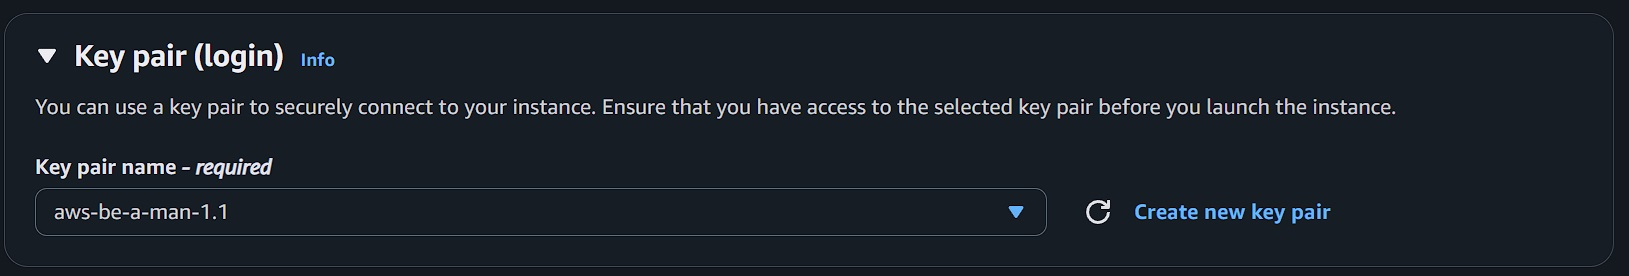
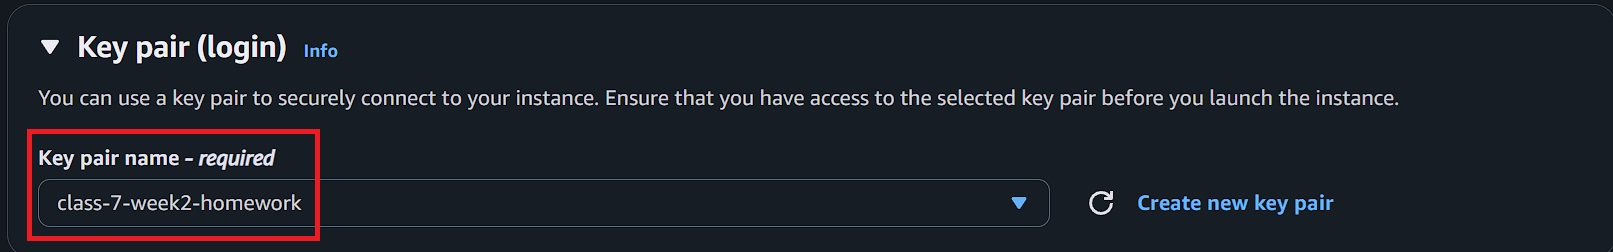
second commit

diff --git a/README.md b/README.md
@@ -1,4 +1,4 @@
-# 🚀 Week 2 Homework — Custom Webserver on EC2 & Ping Google DNS
+# Week 2 Homework — Custom Webserver on EC2 & Ping Google DNS
 
 [![Repo](https://img.shields.io/badge/Repo-class--7--homework-181717?logo=github)](https://github.com/tiqsclass6/class-7-homework)
 ![Cloud-AWS](https://img.shields.io/badge/Cloud-AWS-orange?logo=amazon-aws&logoColor=white)
@@ -52,7 +52,7 @@ Follow each step carefully and you’ll have your own running webserver serving 
 |------|----------|------------|--------|-------------|
 | `HTTP` | TCP      | 80         | Anywhere (0.0.0.0/0) | `webserver` or `HTTP` |
 | `SSH`  | TCP      | 22         | Anywhere (0.0.0.0/0) | `SSH` |
-| `All ICMP` | TCP      | 80         | Anywhere (0.0.0.0/0) | `ICMP` |
+| `All ICMP - IPv4` | TCP      | All         | Anywhere (0.0.0.0/0) | `ICMP` |
 
 ![security-group-details-pt1](/Screenshots/security-group-details-pt1.jpg)
 
@@ -115,7 +115,7 @@ Click **Create security group**.
 2. Scroll to **User data (optional)**  
 3. Paste in your **custom script** (Apache + HTML)
 
-`week2.sh`:
+`class-7-week2-homework.sh`:
 
 ```bash
 #!/bin/bash
@@ -268,8 +268,8 @@ Click **Launch instance** on the right-hand side.
 
 ## 5⃣ Access Your Webserver
 
-1. Open a new browser tab  
-2. Visit:  
+1. Open a **new browser tab**
+2. Visit:
 
    ```plaintext
    http://<your-public-dns>
@@ -277,7 +277,7 @@ Click **Launch instance** on the right-hand side.
 
 3. 🎉 **Class 7 - Week 2 Homework - WebServer**
 
-   ![aws-be-a-man-1.1.jpg](/Screenshots/be-a-man-1.1.jpg)
+   ![class-7-week2-homework.jpg](/Screenshots/class-7-week2-homework.jpg)
 
 ---
 
@@ -292,27 +292,25 @@ Sometimes you need to **ping the Internet** to verify Port 80 is open in your ne
     ![ec2-instance-console1](/Screenshots/ec2-instance-console1.jpg)
     ![ec2-instance-console2](/Screenshots/ec2-instance-console2.jpg)
 
-2. The Linux console will open. Type:  
+2. The **Linux** console will open. Type:  
 
    ```bash
-   ping 8.8.8.8
+   ping -c 15 8.8.8.8
    ```
 
-   ![sudo-vim-ec2-instance](/Screenshots/sudo-vim-ec2-instance.jpg)
+   ![ping-google-dns](/Screenshots/ping-google-dns.jpg)
 
-3. Press `CTRL + Z` to stop the ping  
-
-   ![be-a-man-1.2.jpg](/Screenshots/be-a-man-1.2.jpg)
+   > NOTE: The timer will stop automatically after 15 pings.
 
 ---
 
 ## 🛠 Troubleshooting
 
-If your webserver doesn’t load:
+### ⚠ If your webserver doesn’t load
 
 1. **Security Group Rules**  
-   - Inbound rules must allow HTTP (port 80) from `0.0.0.0/0`.  
-   - Ensure you attached the correct SG (`class-7-week2-homework`).  
+   - Inbound rules must allow **HTTP (port 80)** from `0.0.0.0/0`.  
+   - Ensure you attached the correct **Security Group** (`class-7-week2-homework`).  
 
 2. **Instance State**  
    - Check that the instance is running and has a Public IPv4.  
@@ -331,8 +329,8 @@ If your webserver doesn’t load:
    ```
 
 5. **Firewall/Browser**  
-   - Ensure nothing blocks port 80 locally.  
-   - Try both Public IPv4 and DNS.  
+   - Ensure nothing blocks **port 80** locally.  
+   - Try both **Public IPv4 and DNS.**  
 
 💡 If all else fails, terminate the instance and **relaunch** with these steps.
 
